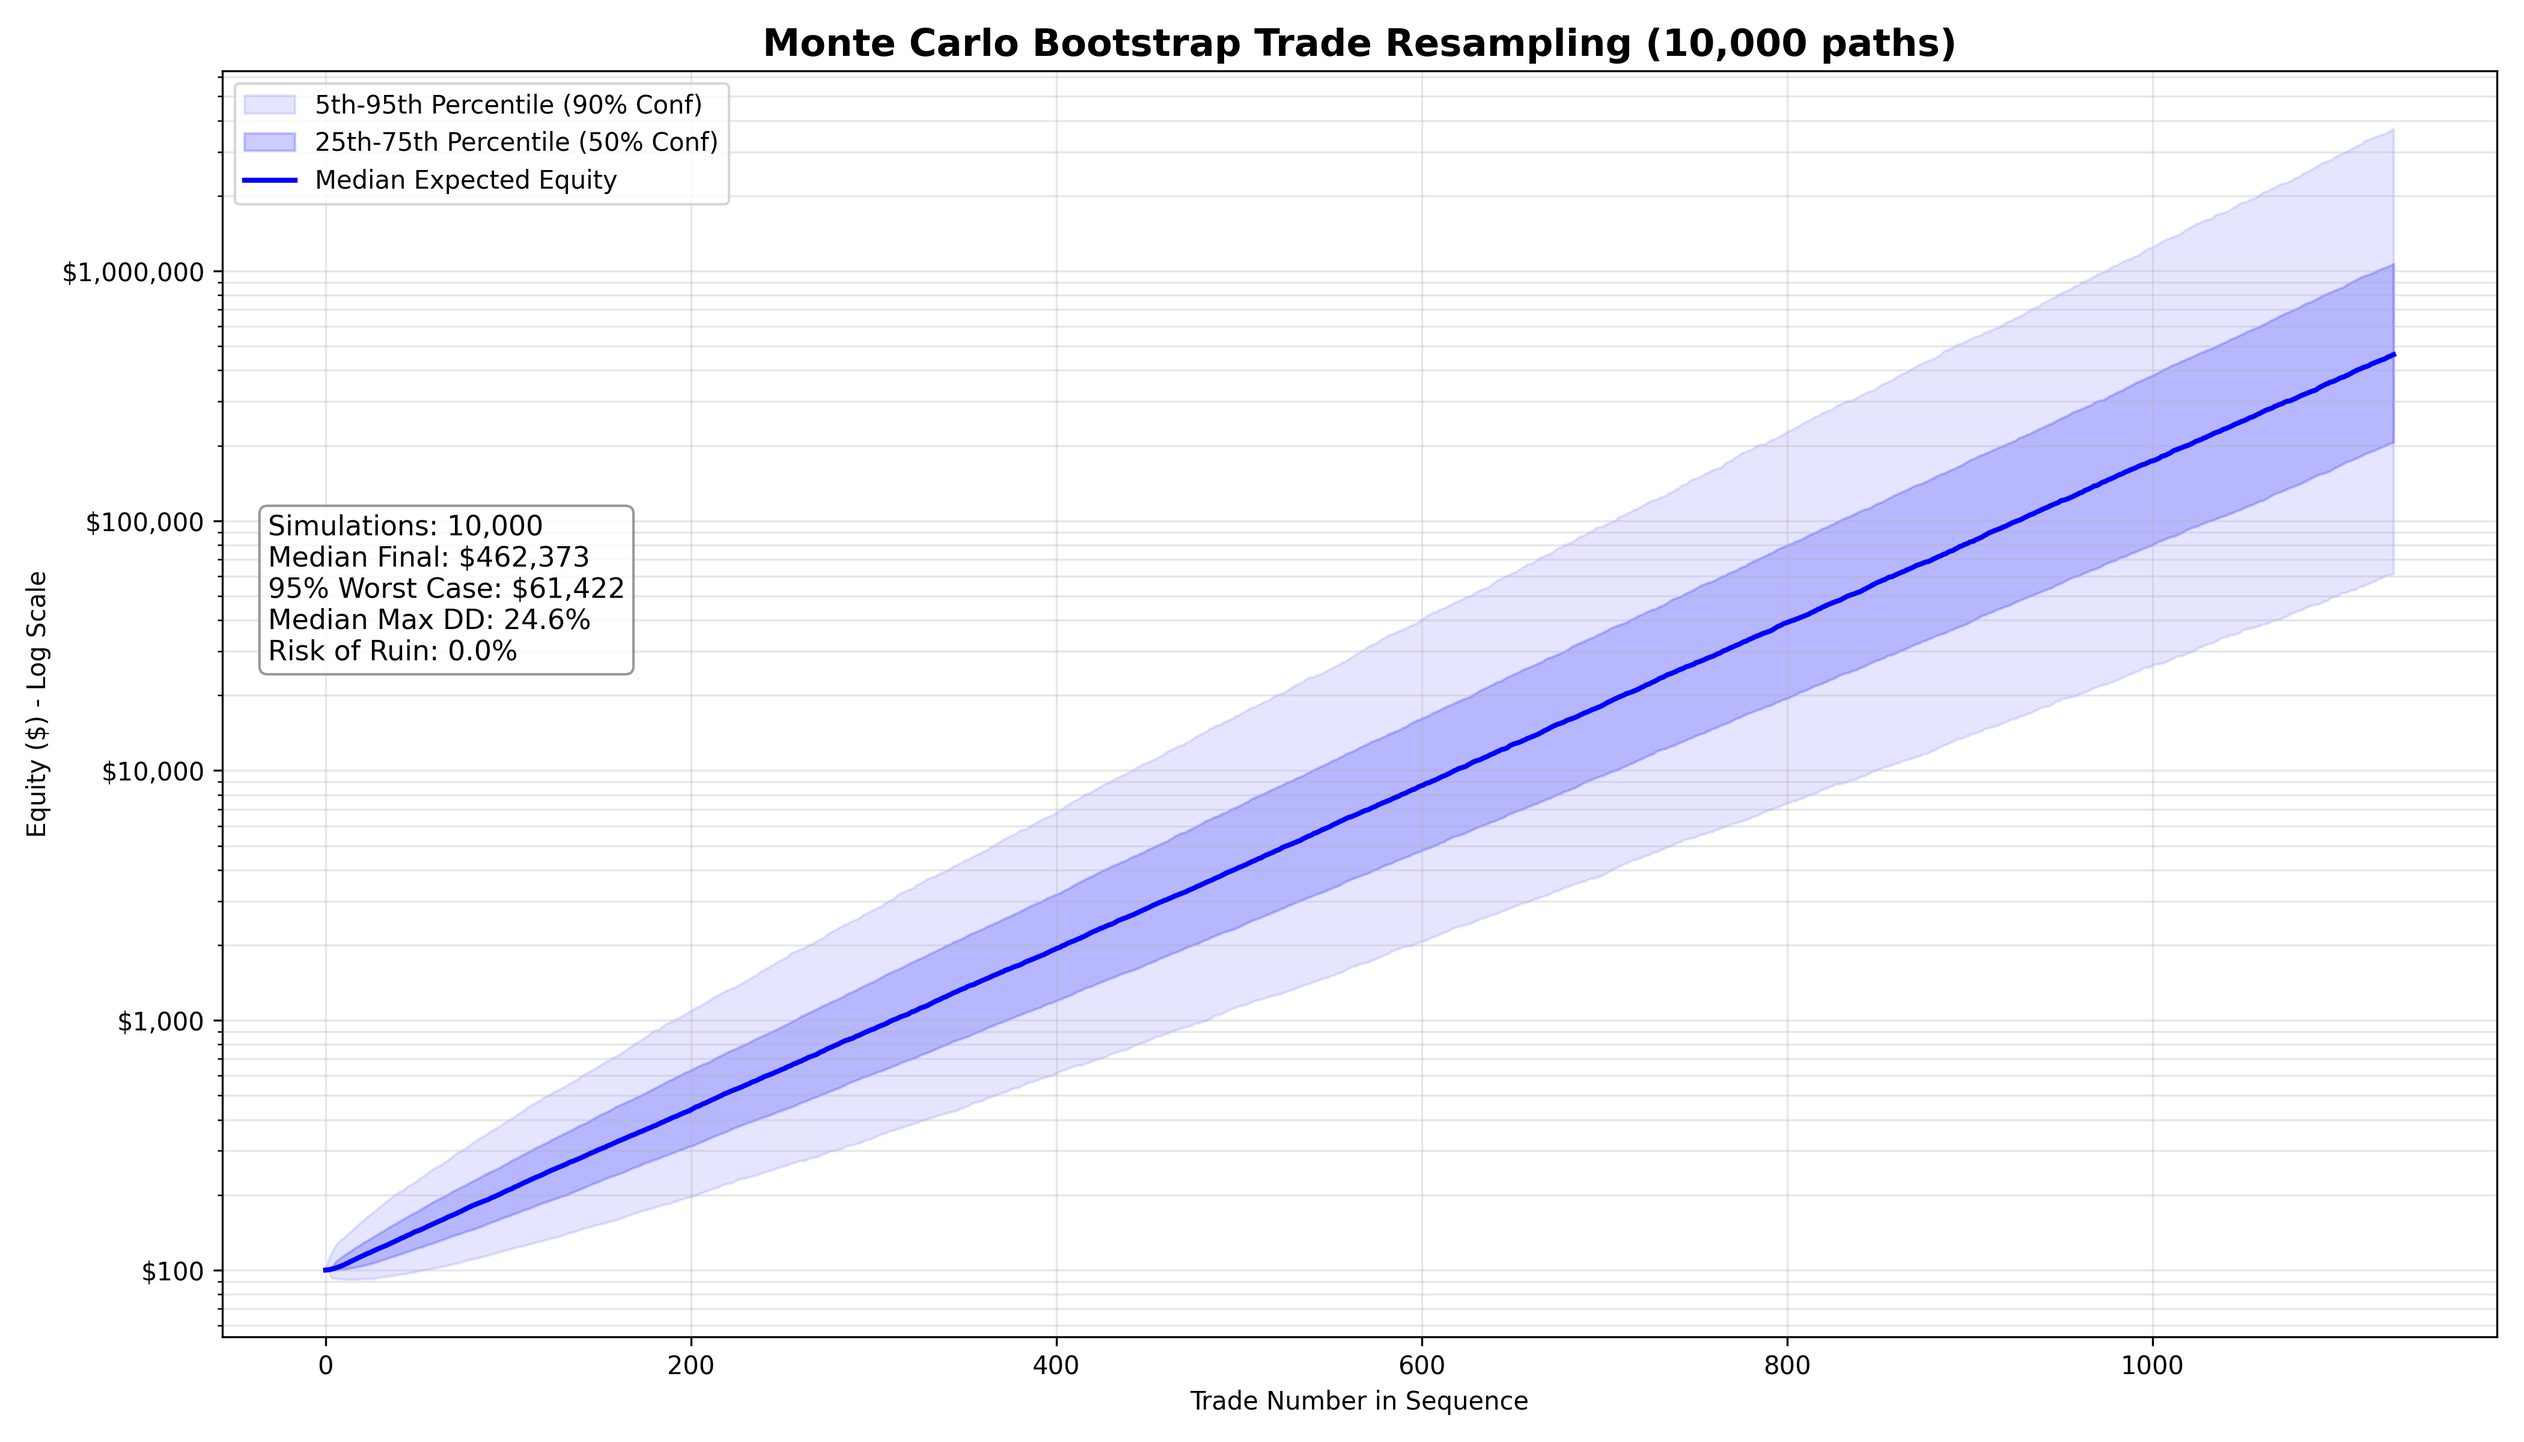
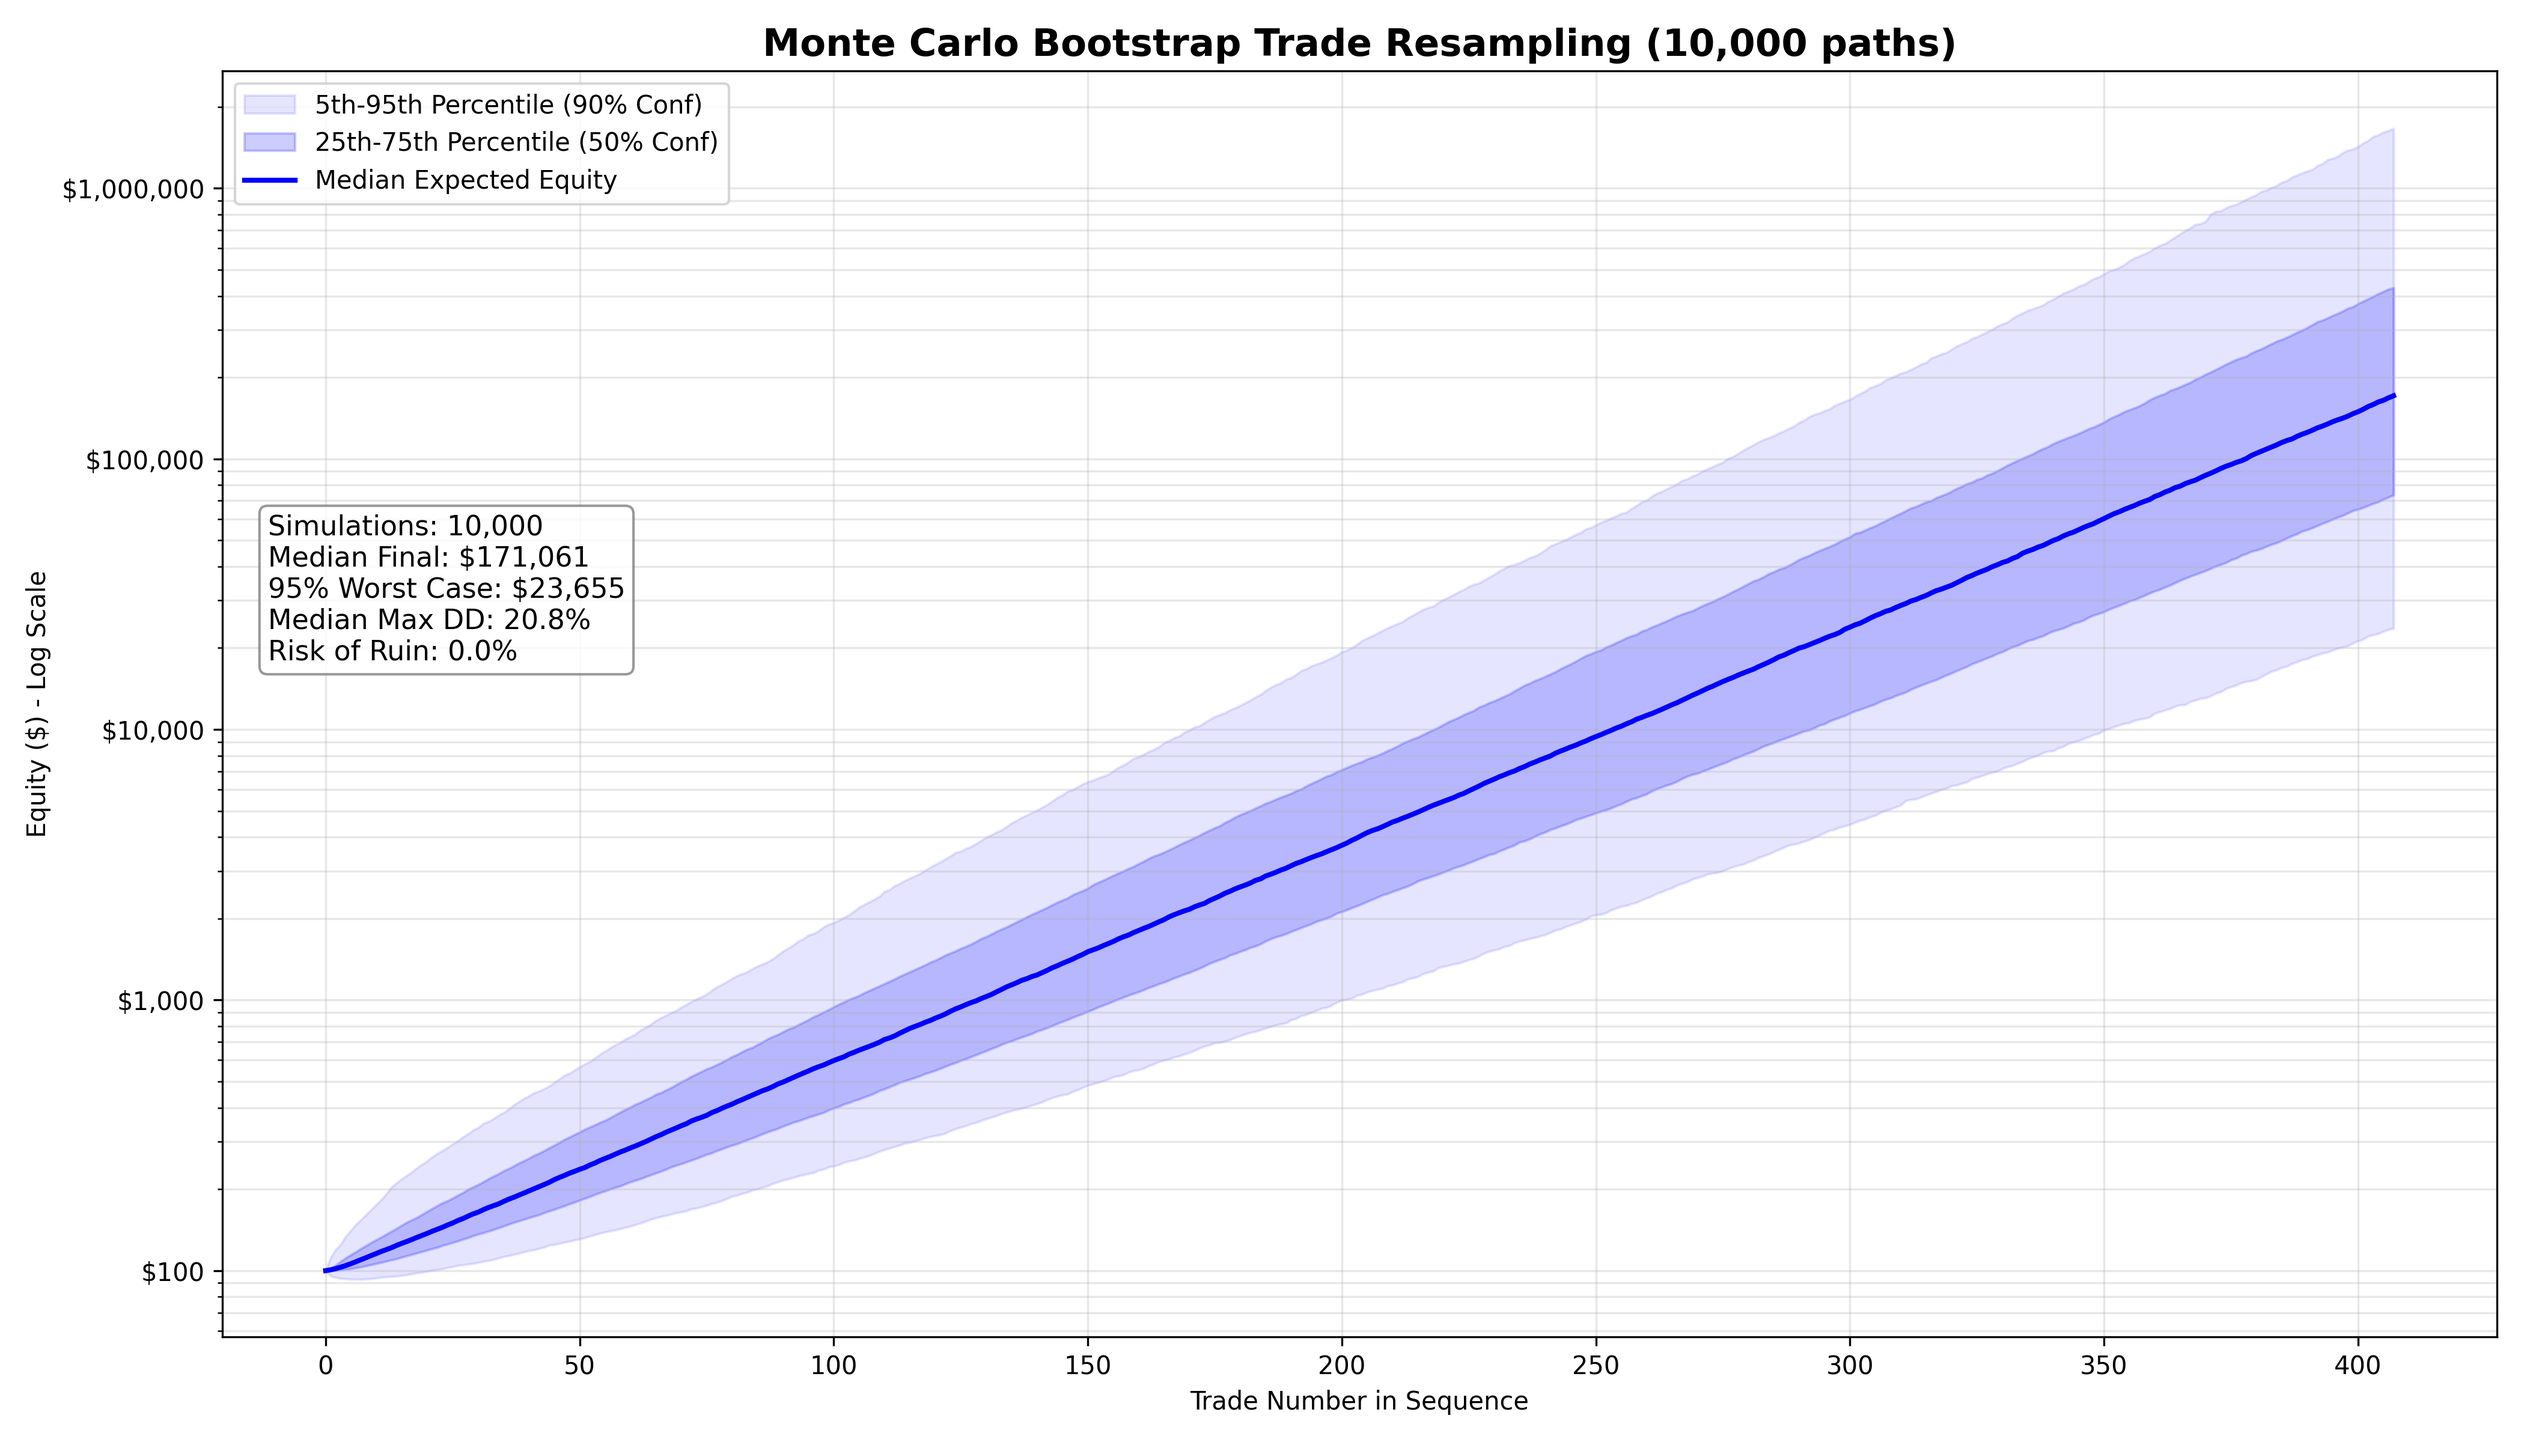
remove tp when trailing

diff --git a/ml/debug_max_positions.py b/ml/debug_max_positions.py
@@ -1,134 +1,81 @@
-#!/usr/bin/env python3
-"""Debug max positions test - why are all results identical?"""
-# -*- coding: utf-8 -*-
-
 import pandas as pd
-from pathlib import Path
-import sys
-import io
-sys.stdout = io.TextIOWrapper(sys.stdout.buffer, encoding='utf-8')
-
 from backtest_3stage import ThreeStageBacktester, BacktestConfig
+from plot_time_equity import create_daily_equity_curve
+from pathlib import Path
 
-# Load data  
-data_path = Path('..') / 'data' / 'processed' / 'features_1d_full.parquet'
-df = pd.read_parquet(data_path)
+def main():
+    data_path = Path('../bitget-data/processed/features_1d_full.parquet')
+    if not data_path.exists():
+        data_path = Path('bitget-data/processed/features_1d_full.parquet')
+        
+    df = pd.read_parquet(data_path)
 
-# Filter to recent period
-df_recent = df[(df['timestamp'] >= '2025-11-01') & (df['timestamp'] <= '2026-01-31')].copy()
-print(f'Dataset: {len(df_recent):,} rows')
-print(f'Symbols: {df_recent["symbol"].nunique()}')
+    config = BacktestConfig(
+        initial_capital=100.0,
+        timeframe='1d',
+        margin_mode='ISOLATED',
+        leverage=20.0,
+        risk_per_trade=0.01,
+        entry_threshold=0.6,
+        max_open_trades=10,
+        use_scanner_filter=True,
+        use_trailing_stop=True,
+        trailing_start_pct=0.1,  # Default from plot_time_equity.py
+        trailing_step_pct=0.05   # Default from plot_time_equity.py
+    )
 
-# Count crossover signals per day
-df_recent['date'] = df_recent['timestamp'].dt.date
-cross_up = df_recent[df_recent['macd_cross_up'] == 1].groupby('date').size()
-cross_down = df_recent[df_recent['macd_cross_down'] == 1].groupby('date').size()
-total_per_day = (cross_up.add(cross_down, fill_value=0)).astype(int)
+    bt = ThreeStageBacktester(config)
 
-print(f'\n📊 Crossover signals per day:')
-print(f'  Max: {total_per_day.max()}')
-print(f'  Mean: {total_per_day.mean():.1f}')
-print(f'  Days with >5 signals: {(total_per_day > 5).sum()}')
-print(f'  Days with >10 signals: {(total_per_day > 10).sum()}')
-print(f'\nTop 10 days with most signals:')
-print(total_per_day.sort_values(ascending=False).head(10))
+    df_warmup = df[(df['timestamp'] >= '2026-01-05') & (df['timestamp'] <= '2026-02-23')].copy()
 
-# Now test backtest with verbose mode
-print("\n" + "="*80)
-print("🔍 DEBUG: Running backtest with max_positions=7 and VERBOSE mode")
-print("="*80)
+    price_columns = ['timestamp', 'close']
+    if 'symbol' in df_warmup.columns:
+        price_columns.insert(0, 'symbol')
+    if 'open' in df_warmup.columns:
+        price_columns.extend(['open', 'high', 'low'])
+    price_data = df_warmup[price_columns].copy()
 
-config = BacktestConfig(
-    initial_capital=100,
-    risk_per_trade=0.01,
-    entry_threshold=0.65,
-    fee_rate=0.001,
-    slippage=0.0005,
-    leverage=5.0,
-    max_open_trades=7,
-    timeframe='1d'
-)
+    print("Running backtest...")
+    result, daily_equity_df, _ = create_daily_equity_curve(df_warmup, bt, '2026-01-05', '2026-02-23', price_data)
 
-backtester = ThreeStageBacktester(config)
+    print(f"Total trades: {len(result.trades)}")
 
-# Patch to track open positions at each signal
-original_run = backtester.run_backtest
-def debug_run(df, verbose=True):
-    """Debug wrapper to track position state"""
-    result = original_run(df, verbose=verbose)
-    
-    # Analyze trades
-    print(f"\n📈 Analysis of {len(result.trades)} trades:")
-    
-    # Group trades by entry time to see concurrent entries
-    from collections import defaultdict
-    trades_by_date = defaultdict(list)
+    # Reproduce Plotter's counting logic
+    trade_events = []
     for t in result.trades:
-        trades_by_date[t.entry_time.date()].append(t)
-    
-    # Find days with multiple entries
-    multi_entry_days = [(d, len(ts)) for d, ts in trades_by_date.items() if len(ts) > 1]
-    multi_entry_days.sort(key=lambda x: -x[1])
-    
-    print(f"\n📅 Days with multiple trade entries:")
-    for d, count in multi_entry_days[:10]:
-        print(f"  {d}: {count} trades")
-    
-    # Check max concurrent positions
-    from datetime import timedelta
-    all_positions = []
-    for t in result.trades:
-        all_positions.append((t.entry_time, 'OPEN', t.symbol))
+        trade_events.append({'date': t.entry_time.date(), 'type': 'entry', 'id': id(t), 'symbol': t.symbol})
         if t.exit_time:
-            all_positions.append((t.exit_time, 'CLOSE', t.symbol))
+            trade_events.append({'date': t.exit_time.date(), 'type': 'exit', 'id': id(t), 'symbol': t.symbol})
+            
+    trade_df = pd.DataFrame(trade_events)
     
-    all_positions.sort()
+    open_positions_track = {}
+    max_count = 0
+    max_date = None
     
-    concurrent = 0
-    max_concurrent = 0
-    max_concurrent_time = None
-    for time, action, symbol in all_positions:
-        if action == 'OPEN':
-            concurrent += 1
-        else:
-            concurrent -= 1
-        if concurrent > max_concurrent:
-            max_concurrent = concurrent
-            max_concurrent_time = time
-    
-    print(f"\n🔢 Max concurrent positions: {max_concurrent}")
-    print(f"   At time: {max_concurrent_time}")
-    
-    return result
+    for date in pd.date_range('2026-01-05', '2026-02-23', freq='D'):
+        current_date = date.date()
+        day_events = trade_df[trade_df['date'] == current_date] if not trade_df.empty else pd.DataFrame()
+        
+        for _, event in day_events.iterrows():
+            if event['type'] == 'entry':
+                open_positions_track[event['id']] = event['symbol']
+            elif event['type'] == 'exit':
+                if event['id'] in open_positions_track:
+                    del open_positions_track[event['id']]
+        
+        count = len(open_positions_track)
+        if count > max_count:
+            max_count = count
+            max_date = current_date
+            
+        if current_date == pd.to_datetime('2026-02-15').date():
+            print(f"\nCalculated open positions on {current_date} directly: {count}")
+            for tid, sym in open_positions_track.items():
+                t = next(x for x in result.trades if id(x) == tid)
+                print(f'   - {sym} Entry: {t.entry_time.date()} Exit: {t.exit_time.date() if t.exit_time else "None"} Reason: {t.exit_reason}')
 
-result = debug_run(df_recent)
+    print(f"\nMaximum open positions at any time point was {max_count} on {max_date}")
 
-print("\n" + "="*80)
-print("🔍 Now testing with max_positions=20")
-print("="*80)
-
-config20 = BacktestConfig(
-    initial_capital=100,
-    risk_per_trade=0.01,
-    entry_threshold=0.65,
-    fee_rate=0.001,
-    slippage=0.0005,
-    leverage=5.0,
-    max_open_trades=20,
-    timeframe='1d'
-)
-
-backtester20 = ThreeStageBacktester(config20)
-result20 = debug_run(df_recent)
-
-print("\n" + "="*80)
-print("🤔 COMPARISON")
-print("="*80)
-print(f"Max 7 positions: {result.total_trades} trades, {result.total_return:.1%} return")
-print(f"Max 20 positions: {result20.total_trades} trades, {result20.total_return:.1%} return")
-
-if result.total_trades == result20.total_trades:
-    print("\n⚠ Same number of trades! Possible causes:")
-    print("1. Not enough concurrent signals (entry_threshold=0.65 filters most)")
-    print("2. Capital constraint kicks in before max positions")
-    print("3. Same-symbol rule prevents multiple entries")
+if __name__ == '__main__':
+    main()

diff --git a/ml/backtest_3stage.py b/ml/backtest_3stage.py
@@ -93,7 +93,7 @@ class BacktestConfig:
     scanner_mae: float = 0.00  # Max Adverse Excursion for zone calculation
     scanner_mfe: float = 0.12  # Max Favorable Excursion for zone calculation
     scanner_lookback_days: int = 4  # Wait up to N days for a good entry zone
-    allowed_zones: List[str] = field(default_factory=lambda: [ "DISCOUNT", "GOOD ENTRY","DEEP MERGE"])
+    allowed_zones: List[str] = field(default_factory=lambda: [ "DISCOUNT", "GOOD ENTRY"])
 
     # Date filtering
     start_date: Optional[str] = None
@@ -699,6 +699,12 @@ class ThreeStageBacktester:
             if current_time not in low_map.index: continue
 
             for sig in pending_pool:
+                # 🛑 FIX LOOK-AHEAD BIAS: Strict "Next Candle" Entry Rule
+                # If signal timestamp is >= current time, the candle hasn't closed yet.
+                # We can ONLY enter on the candle(s) AFTER the signal is confirmed.
+                if sig['timestamp'] >= current_time:
+                    continue
+
                 symbol = sig['symbol']
                 if symbol not in low_map.columns: continue
                 

diff --git a/ml/backtest_grid_search.py b/ml/backtest_grid_search.py
@@ -160,7 +160,7 @@ if __name__ == "__main__":
     parser.add_argument('--trailing', action='store_true')
     parser.add_argument('--trailing-start', type=float, default=0.1)
     parser.add_argument('--trailing-step', type=float, default=0.05)
-    parser.add_argument('--use-scanner', action='store_true')
+    parser.add_argument('--use-scanner', action='store_true',default=True)
     parser.add_argument('--scanner-mae', type=float, default=0.04)
     parser.add_argument('--scanner-mfe', type=float, default=0.12)
     parser.add_argument('--scanner-lookback', type=int, default=6)
